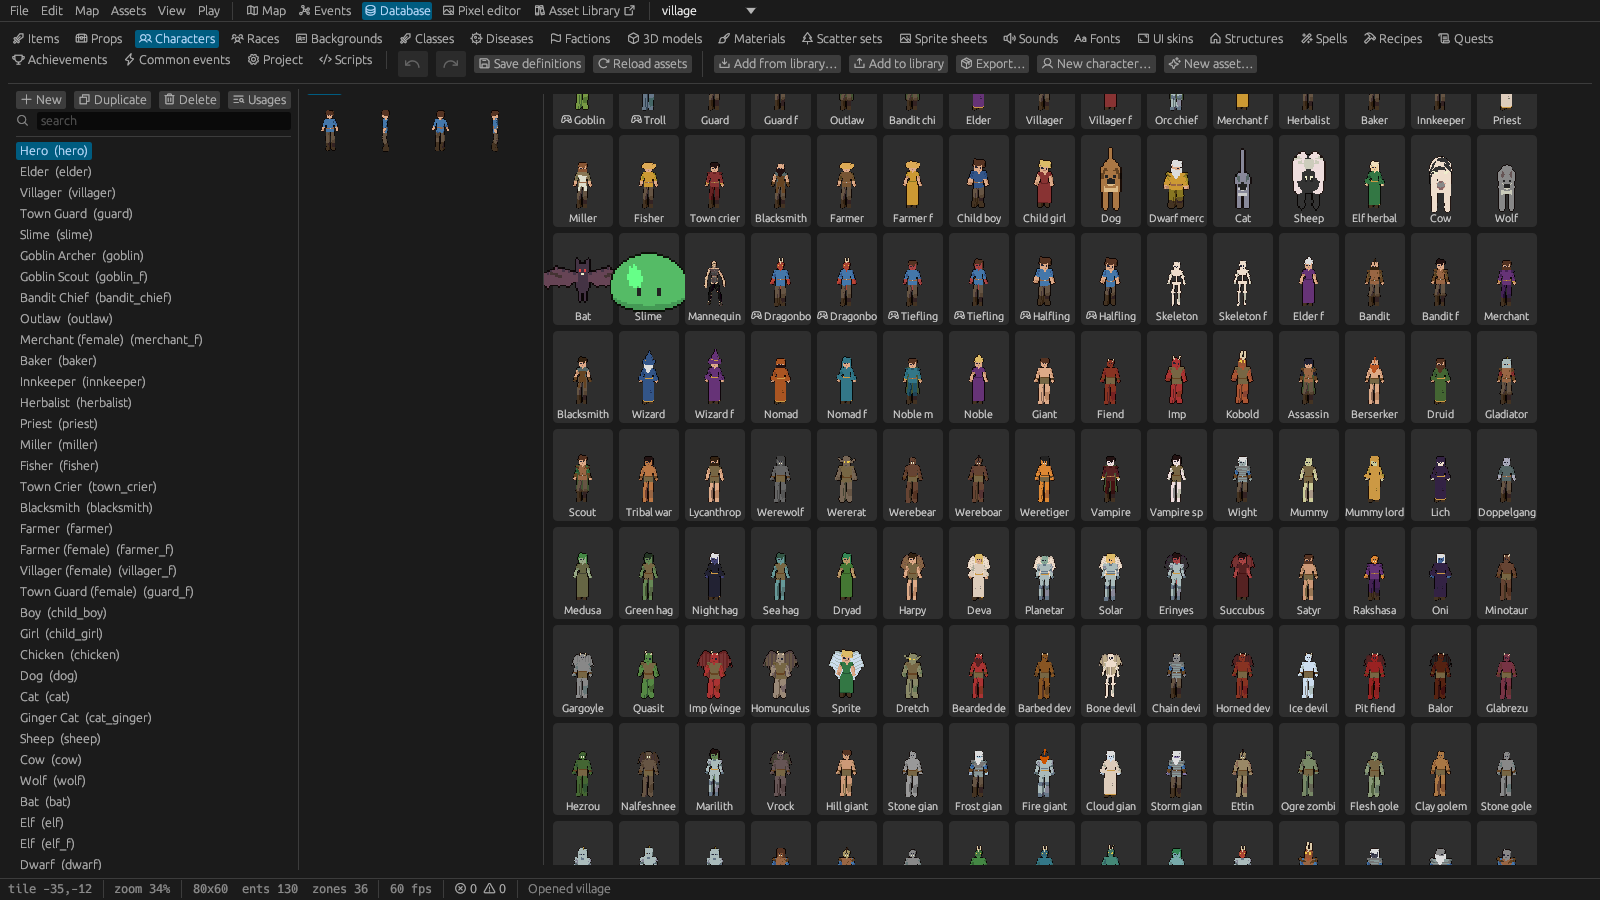
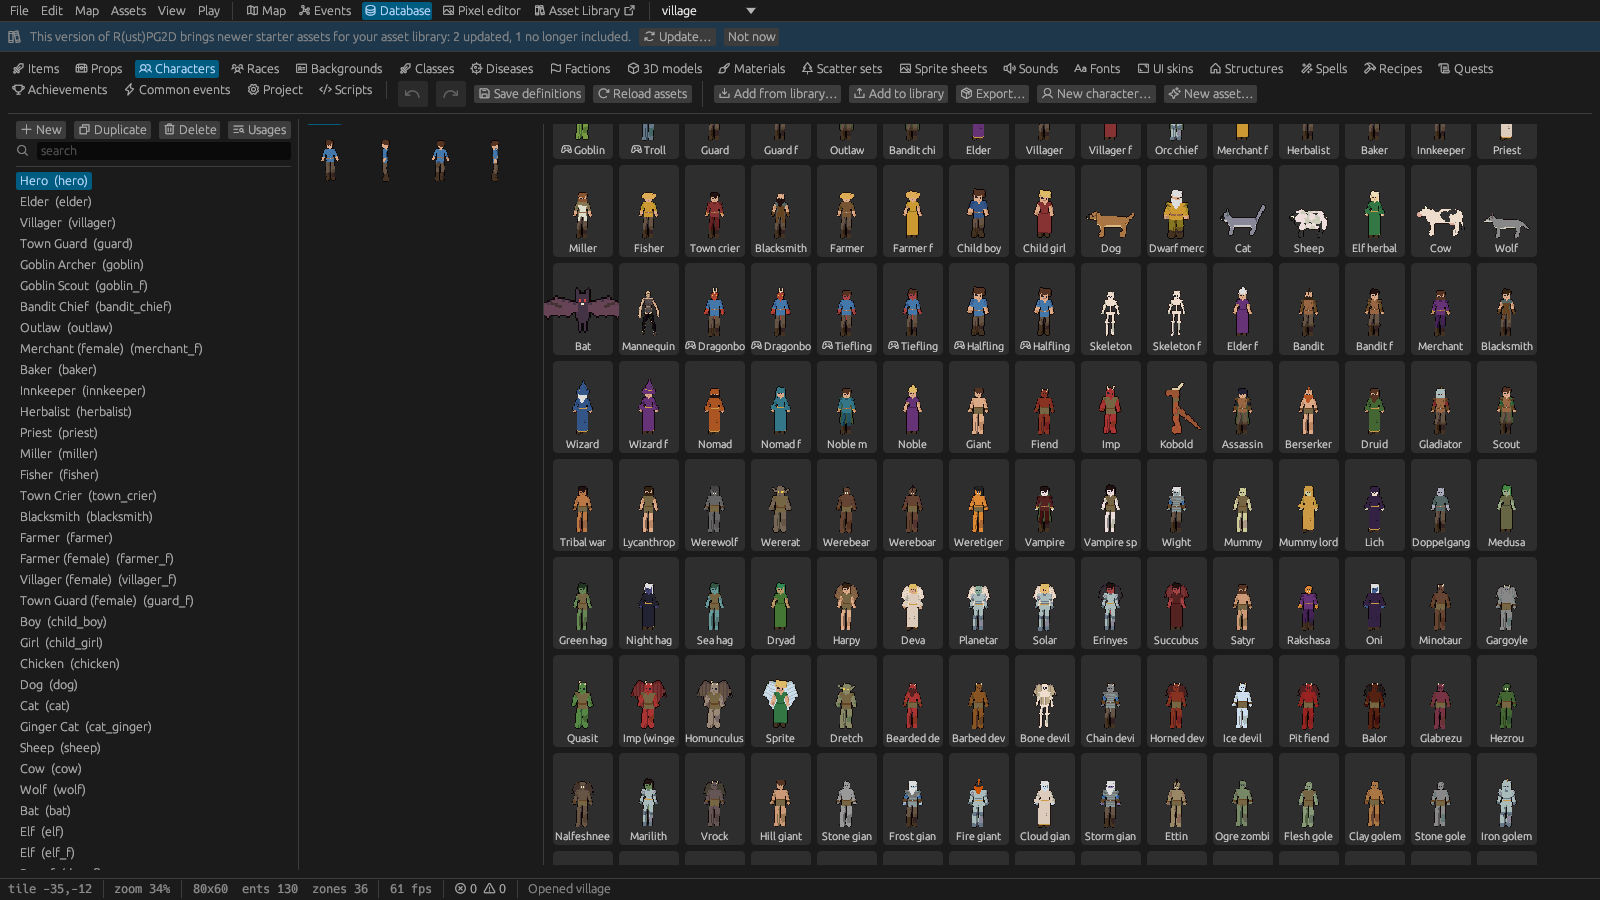
Animals show their side in the editor's thumbnails
- Models::portrait_facing: the side of a model much longer than wide (a wolf, a horse, a
  shark), else the front; decided once from the model's bounds at rest
- widgets::paint_portrait fits such a side view whole into its box; the character thumbnails,
  the character editor's model cards, the model form's colour swatches and the Asset
  Library's cards use it
- the manual's pictures of the Asset Library and the character editor retaken

Changed region(s): [[0.0, 0.0, 1.0, 0.9644], [0.9375, 0.0933, 0.9688, 0.1556]]

diff --git a/crates/engine/src/render/model.rs b/crates/engine/src/render/model.rs
@@ -261,6 +261,8 @@ struct Loaded {
     fitted: Option<Box<Fitted>>,
     /// A piece's joints as nodes of the bodies it was worn on (by body id; [`Model::bind_to`]).
     binds: RefCell<HashMap<String, std::rc::Rc<Vec<Option<usize>>>>>,
+    /// Longer from nose to tail than it is wide ([`long_body`]): a still picture shows its side.
+    long: bool,
 }
 
 /// The pieces the figure of `look` shows on body model `body`, as model ids in slot order: the
@@ -655,6 +657,17 @@ impl Models {
         Appearance { model, ..a.clone() }
     }
 
+    /// The facing a still picture of a look shows best (thumbnails, cards): the side of a model
+    /// that is long from nose to tail (a wolf, a horse, a shark), else the front.
+    pub fn portrait_facing(&self, a: &Appearance) -> Facing {
+        let id = if self.has(&a.model) { &a.model } else { &a.body };
+        if self.loaded.get(id).is_some_and(|l| l.long) {
+            Facing::Left
+        } else {
+            Facing::Down
+        }
+    }
+
     /// A model's frame size in world pixels (as a figure's frame).
     pub fn frame_size(&self, id: &str) -> Option<(f32, f32)> {
         self.loaded.get(id).map(|l| (l.frame.0 as f32 / PX, l.frame.1 as f32 / PX))
@@ -974,6 +987,7 @@ impl Models {
                 Ok(m) => l.model = m,
                 Err(_) => return false,
             }
+            l.long = long_body(&l.model);
         }
         l.height = standing(def, &l.model);
         (l.frame, l.ppu, l.target_y) = layout(def, l.height);
@@ -1155,8 +1169,9 @@ fn load_one(def: &ModelDef, db: &Database, read: &dyn Fn(&str) -> std::io::Resul
     let hip = hip_bone(&model, &rest);
     let height = standing(def, &model);
     let (frame, ppu, target_y) = layout(def, height);
+    let long = long_body(&model);
     let texture = model.texture.clone();
-    Ok(Loaded { def: effective(def, fitted.as_deref()), model, texture, align, hands, back, hip, frame, height, ppu, target_y, textures: RefCell::new(HashMap::new()), fitted, binds: RefCell::new(HashMap::new()) })
+    Ok(Loaded { def: effective(def, fitted.as_deref()), model, texture, align, hands, back, hip, frame, height, ppu, target_y, textures: RefCell::new(HashMap::new()), fitted, binds: RefCell::new(HashMap::new()), long })
 }
 
 /// The standing figure's height in model units: [`ModelDef::stand`] when the file is only a
@@ -1167,6 +1182,14 @@ fn standing(def: &ModelDef, model: &Model) -> f32 {
     }
     let (lo, hi) = model.bounds();
     (hi.y - lo.y).max(1e-3)
+}
+
+/// Whether a model at rest is much longer from front to back than it is wide: an animal on four
+/// legs, a fish. (People, with their arms, are wider than deep; a spider is as wide as long.)
+fn long_body(model: &Model) -> bool {
+    let (lo, hi) = model.bounds();
+    let size = hi - lo;
+    size.z > size.x * 1.5 && size.z > size.y * 0.6
 }
 
 /// A model's frame (image pixels), pixels per model unit and camera target height: the standing
@@ -1651,6 +1674,18 @@ mod tests {
         let glb = std::fs::read(concat!(env!("CARGO_MANIFEST_DIR"), "/tests/fixtures/model_two_bones.glb")).unwrap();
         let def = ModelDef { clips: vec![ClipMap { anim: "walk".into(), clip: "bend".into(), fps: 10.0, hit: None }], ..ModelDef::new("m", "models/m.glb") };
         load_one(&def, &Database::default(), &|_| Ok(glb.clone())).unwrap()
+    }
+
+    #[test]
+    fn a_long_body_is_pictured_from_the_side() {
+        // The fixture is a thin upright bar: pictured from the front, like a person.
+        let mut l = loaded();
+        assert!(!l.long);
+        // Laid along z it is a body long from nose to tail.
+        for v in l.model.vertices.iter_mut() {
+            v.pos = vec3(v.pos.x, v.pos.z, v.pos.y);
+        }
+        assert!(long_body(&l.model));
     }
 
     #[test]

diff --git a/crates/editor/src/library_ui.rs b/crates/editor/src/library_ui.rs
@@ -157,12 +157,12 @@ impl LibState {
 
     /// Paints a library character facing `facing` into `rect` (idle frame).
     pub(crate) fn paint_character(&self, ui: &egui::Ui, id: &str, facing: rustpg2d_engine::entity::Facing, rect: Rect) -> bool {
-        self.lib.as_ref().is_some_and(|lib| self.paint_character_in(ui, &lib.db, id, facing, rect))
+        self.lib.as_ref().is_some_and(|lib| self.paint_character_in(ui, &lib.db, id, Some(facing), rect))
     }
 
     /// Paints a character of `db` (its model, rendered from the shown store's files) into `rect`,
-    /// standing facing `facing`.
-    fn paint_character_in(&self, ui: &egui::Ui, db: &Database, id: &str, facing: rustpg2d_engine::entity::Facing, rect: Rect) -> bool {
+    /// standing facing `facing` (None: the way a still picture shows it best).
+    fn paint_character_in(&self, ui: &egui::Ui, db: &Database, id: &str, facing: Option<rustpg2d_engine::entity::Facing>, rect: Rect) -> bool {
         use rustpg2d_engine::render::model::{Gear, Models, PoseReq};
         let Some(d) = db.character(id) else { return false };
         let mut m = self.models.borrow_mut();
@@ -172,6 +172,7 @@ impl LibState {
         }
         let Some(models) = m.as_ref() else { return false };
         let a = models.look_of(&d.appearance);
+        let Some(facing) = facing else { return crate::widgets::paint_portrait(ui, models, db, &HashMap::new(), &a, rect) };
         let gear = Gear::default();
         let req = PoseReq { look: &a, gear: &gear, anim: "idle", time: 0.0, once: true, facing, turn: 0, bust: false };
         crate::widgets::paint_pose(ui, models, db, &HashMap::new(), &req, rect)
@@ -221,7 +222,7 @@ impl LibState {
                 ui.painter().image(t.handle.id(), r, Rect::from_min_max(pos2(0.0, 0.0), pos2((64.0 / t.w).min(1.0),(64.0 / t.h).min(1.0))), Color32::WHITE);
                 true
             }),
-            (RefKind::Character, _) => self.paint_character_in(ui, db, &a.1, rustpg2d_engine::entity::Facing::Down, rect),
+            (RefKind::Character, _) => self.paint_character_in(ui, db, &a.1, None, rect),
             (_, Some(s)) => self.paint_sprite_in(ui, db, &s, rect),
             _ => false,
         };

diff --git a/crates/editor/src/widgets.rs b/crates/editor/src/widgets.rs
@@ -187,6 +187,16 @@ pub fn paint_model_whole(ui: &Ui, assets: &Assets, db: &rustpg2d_engine::defs::D
     paint_pose_fit(ui, &assets.models, db, &assets.sheets, req, rect, true)
 }
 
+/// A still picture of a look for thumbnails and cards: from the front, or, for a model that is
+/// long from nose to tail (a wolf, a horse: from the front a head on legs), its side, fitted
+/// whole into the box.
+pub fn paint_portrait(ui: &Ui, models: &rustpg2d_engine::render::model::Models, db: &rustpg2d_engine::defs::Database, sheets: &HashMap<String, rustpg2d_engine::render::SheetTex>, look: &rustpg2d_engine::defs::Appearance, rect: Rect) -> bool {
+    let gear = rustpg2d_engine::render::model::Gear::default();
+    let facing = models.portrait_facing(look);
+    let req = rustpg2d_engine::render::model::PoseReq { look, gear: &gear, anim: "idle", time: 0.0, once: true, facing, turn: 0, bust: false };
+    paint_pose_fit(ui, models, db, sheets, &req, rect, facing != Facing::Down)
+}
+
 /// [`paint_model`] with any set of models (the asset library's own).
 pub fn paint_pose(ui: &Ui, models: &rustpg2d_engine::render::model::Models, db: &rustpg2d_engine::defs::Database, sheets: &HashMap<String, rustpg2d_engine::render::SheetTex>, req: &rustpg2d_engine::render::model::PoseReq, rect: Rect) -> bool {
     paint_pose_fit(ui, models, db, sheets, req, rect, false)
@@ -217,7 +227,7 @@ fn paint_pose_fit(ui: &Ui, models: &rustpg2d_engine::render::model::Models, db: 
 
 pub fn paint_sprite(ui: &Ui, tex: &Textures, assets: &Assets, sprite: &SpriteRef, rect: Rect) -> bool {
     if let Some(id) = sprite.sheet.strip_prefix(CHAR_PREFIX) {
-        return tex.characters.get(id).is_some_and(|a| paint_character(ui, assets, a, Facing::Down, rect));
+        return tex.characters.get(id).is_some_and(|a| paint_portrait(ui, &assets.models, empty_db(), &assets.sheets, a, rect));
     }
     let (Some(t), Some(s)) = (tex.sheets.get(&sprite.sheet), assets.sheets.get(&sprite.sheet)) else { return false };
     let (cw, ch) = sprite.cells();

diff --git a/crates/editor/src/builder.rs b/crates/editor/src/builder.rs
@@ -53,14 +53,12 @@ pub fn model_cards(ui: &mut Ui, cx: &Cx, base: &Appearance, current: &str) -> Op
 pub fn model_cards_of(ui: &mut Ui, cx: &Cx, ids: &[String], none: Option<&str>, base: &Appearance, current: &str) -> Option<String> {
     let mut entries: Vec<(String, String)> = none.map(|n| (String::new(), n.to_string())).into_iter().collect();
     entries.extend(ids.iter().filter_map(|id| cx.db.model(id)).map(|m| (m.id.clone(), if m.playable { format!("{} {}", ph::GAME_CONTROLLER, m.label()) } else { m.label().to_string() })));
-    let gear = rustpg2d_engine::render::model::Gear::default();
     cards(ui, THUMB, &entries, Some(&current.to_string()), &|ui, id, r| {
         if id.is_empty() {
             return false;
         }
         let a = Appearance { model: id.clone(), colors: if *id == base.model { base.colors.clone() } else { Default::default() }, ..base.clone() };
-        let req = rustpg2d_engine::render::model::PoseReq { look: &a, gear: &gear, anim: "idle", time: 0.0, once: false, facing: Facing::Down, turn: 0, bust: false };
-        widgets::paint_model(ui, cx.assets, cx.db, &req, r)
+        widgets::paint_portrait(ui, &cx.assets.models, cx.db, &cx.assets.sheets, &a, r)
     })
 }
 

diff --git a/crates/editor/src/database.rs b/crates/editor/src/database.rs
@@ -6633,8 +6633,7 @@ fn model_form(ui: &mut egui::Ui, d: &mut rustpg2d_engine::defs::ModelDef, cx: &m
                 }
                 let (r, _) = ui.allocate_exact_size(egui::vec2(48.0, 64.0), egui::Sense::hover());
                 ui.painter().rect_filled(r, 3.0, egui::Color32::from_gray(36));
-                let req = PoseReq { look: &look, gear: &gear, anim: "idle", time: 0.0, once: false, facing: Facing::Down, turn: 0, bust: false };
-                widgets::paint_model(ui, cx.assets, cx.db, &req, r.shrink(2.0));
+                widgets::paint_portrait(ui, &cx.assets.models, cx.db, &cx.assets.sheets, &look, r.shrink(2.0));
             }
         });
     }

diff --git a/CHANGELOG.md b/CHANGELOG.md
@@ -87,6 +87,10 @@ All notable changes to R(ust)PG2D (formerly rust2d) (engine, game runner and edi
     Caves holds a giant wolf spider (challenge 1/4) instead of a giant spider (challenge 1), and
     the bridge in the Wilds an ogre (challenge 2) instead of a troll (challenge 5).
   - **Still its own:** Grumbold the cave troll keeps his hand-made block.
+- **Animals show their side in thumbnails.** The editor's character thumbnails, the cards of
+  the character editor and the Asset Library picture a model that is long from nose to tail (a
+  wolf, a horse, a crocodile) from the side, fitted into the card, instead of from the front,
+  where it was a head on legs. People, bats and spiders keep facing the viewer.
 - **Documentation:** the screenshots of the manual and the README that show figures were taken
   again with the kit's people and creatures (21 pictures).
 - **AI agent server:**

diff --git a/Documentation/architecture.md b/Documentation/architecture.md
@@ -452,6 +452,8 @@ triangles than one draw takes is listed in `Models.warnings` (`oversize`). The s
 playable races are built this way by `scripts/art/kit` (the figure kit: voxel blocks on the
 hero's skeleton, one shared clip file fitted to each build by `shared_clips`). The kit's creatures
 are unrigged sculpts with a rig fit (`ModelDef.rig`: a template and where its joints go).
+`Models::portrait_facing` says which way a still picture shows a look best (the side of a model
+much longer than wide); the editor's thumbnails use it (`widgets::paint_portrait`).
 
 The editor shows rendered poses
 without copying them: `widgets::paint_model` hands egui the atlas page's OpenGL texture

diff --git a/Documentation/manual/06-characters.md b/Documentation/manual/06-characters.md
@@ -115,6 +115,8 @@ style guide), not generated art: a new outfit, hat or townsperson is a change th
   its model, so the model's height is the height at size 100. A character of your own that uses
   the horse's model wants *Size* 150 like the library's horses.
 - Some monsters stand in for others of a similar shape (a hydra uses the wingless dragon).
+- In thumbnails and cards the editor pictures long animals (a wolf, a horse) from the side and
+  everything else from the front.
 
 ### Weapon animations
 
